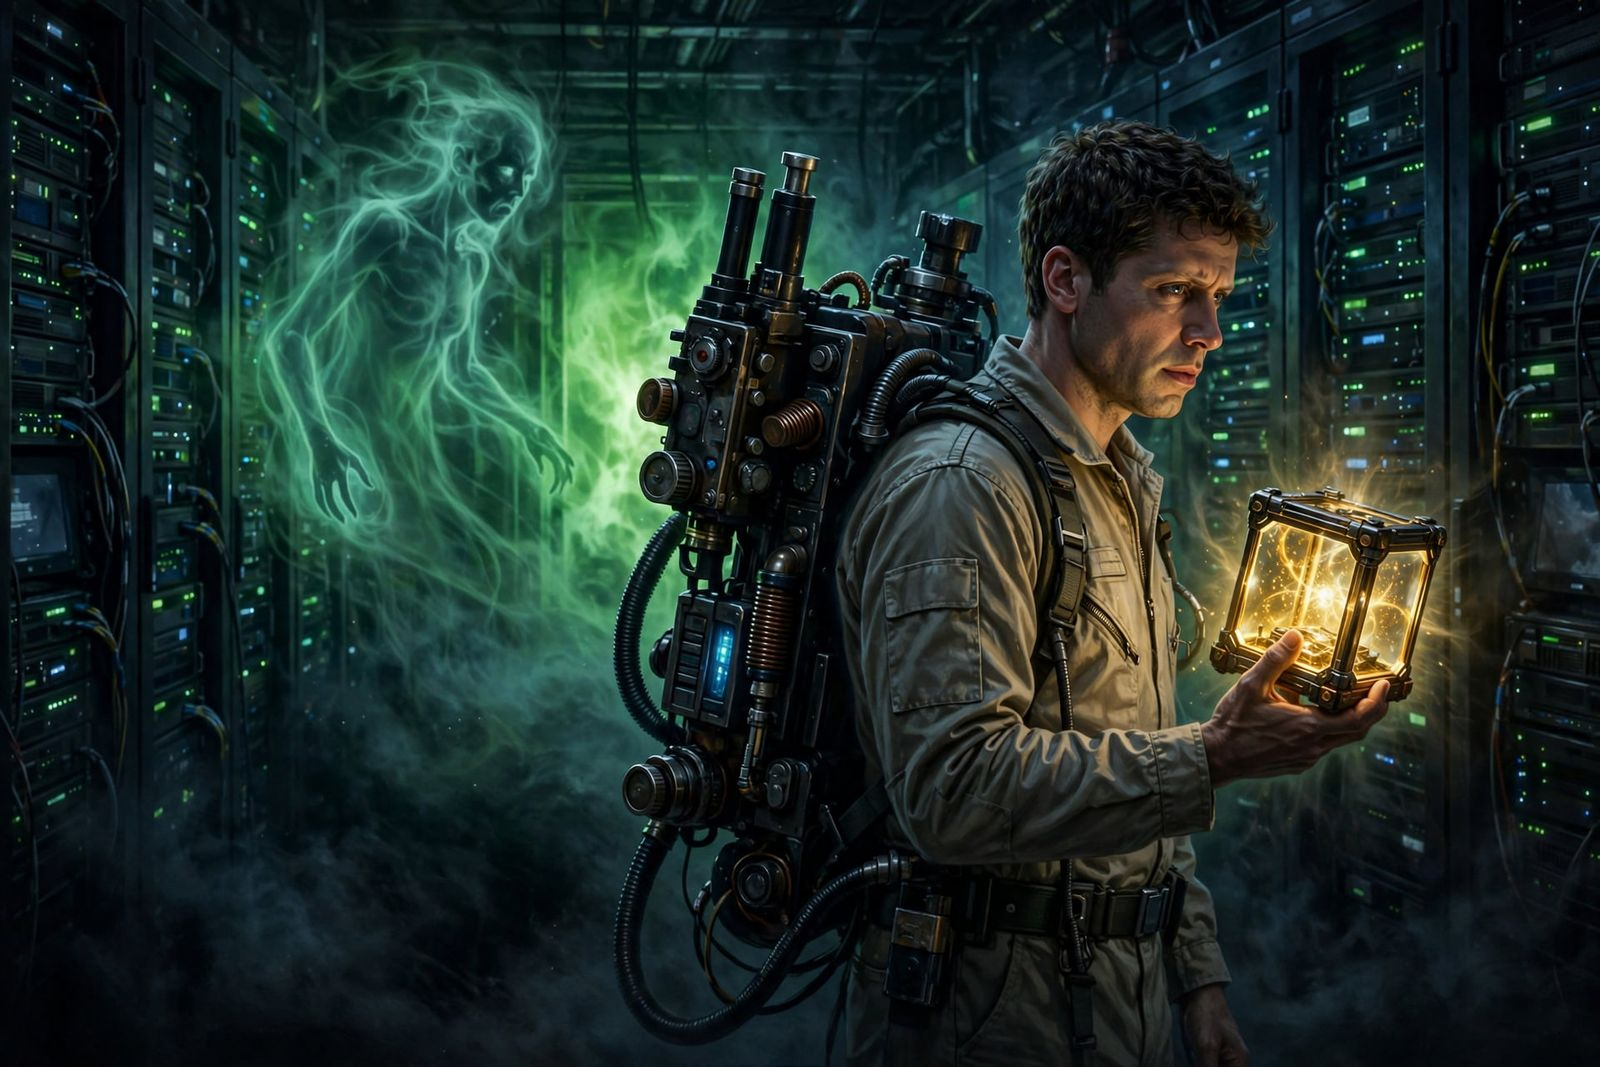
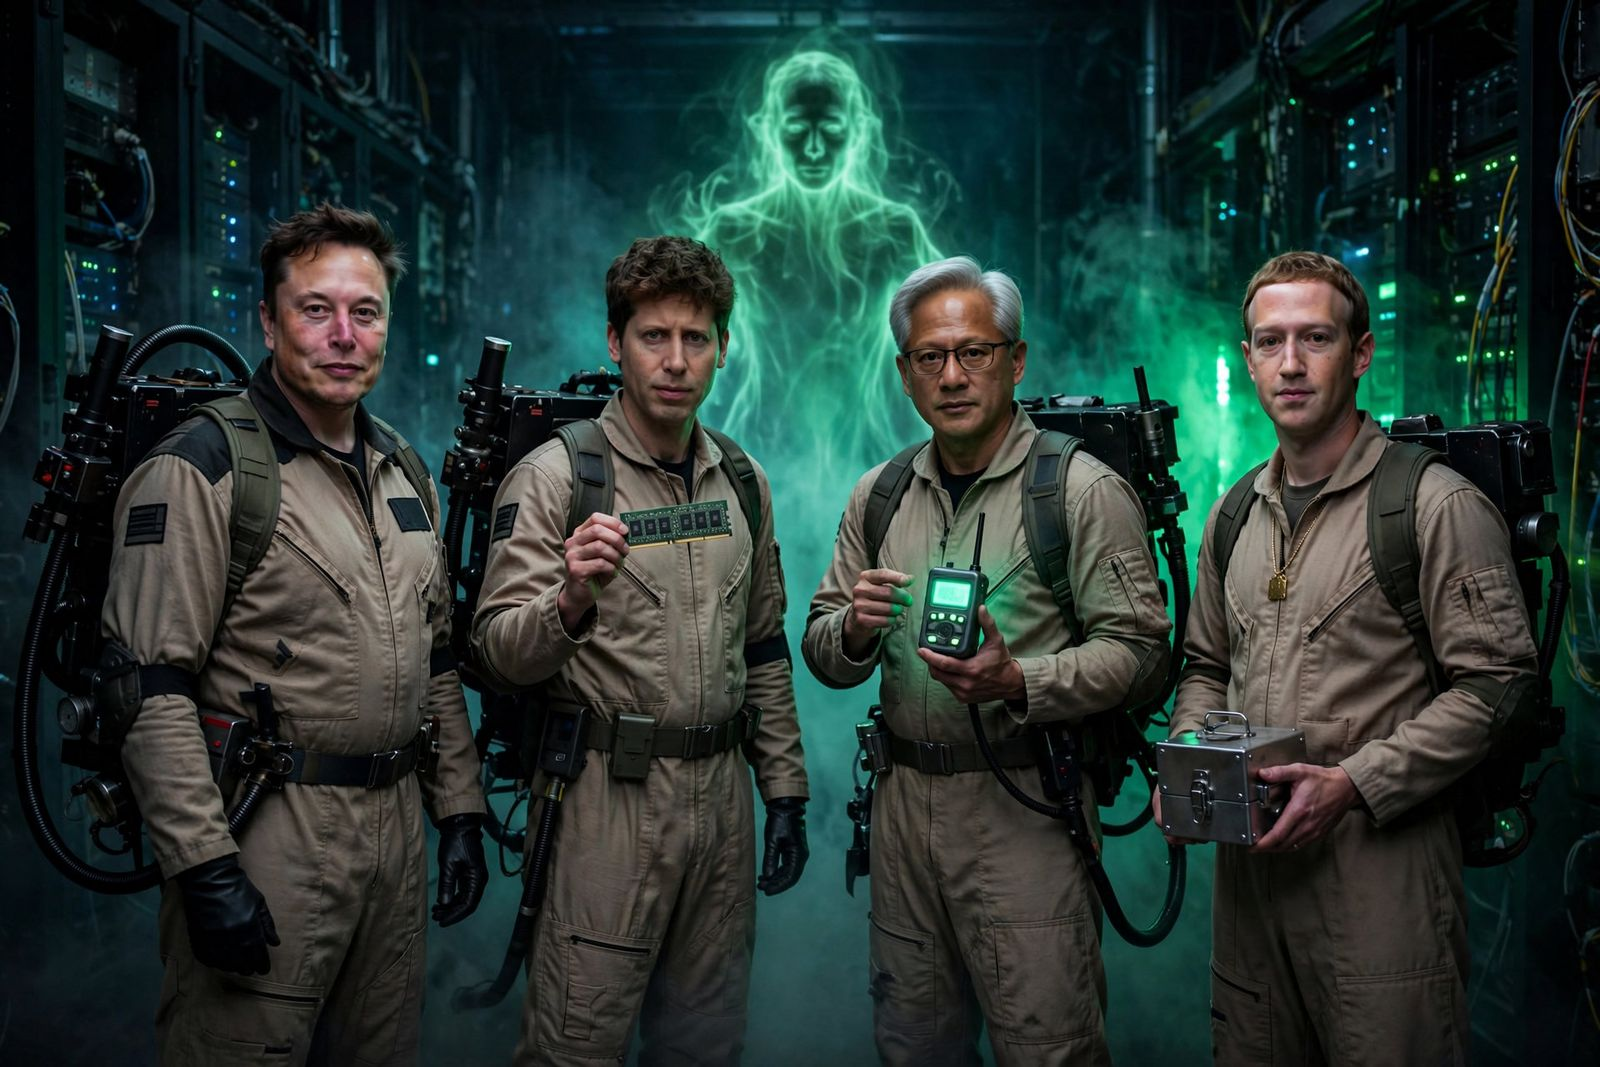
feat(pledges): refresh rambusters and zelda heroes, retire dialup theme
- rambusters: new four-CEO crew hero (Elon, Sam, Jensen, Zuck) with readable RAM stick; revised concept in docs/planning/ideas/done.

- zelda: refreshed hero art and alt text.

- dialup: moved to deprecated-themes.json (retired from picker, old links still render).

diff --git a/html/pledges/rambusters.html b/html/pledges/rambusters.html
@@ -31,7 +31,7 @@
 <div class="wrap">
   <a class="back noprint" href="/">&larr; samneedsram.com</a>
   <figure class="hero">
-    <img src="/pledges/art/rambusters/hero.jpg" alt="Sam as a jumpsuited exterminator with an accelerator pack holding a glowing trap, a green apparition looming in a haunted server room">
+    <img src="/pledges/art/rambusters/hero.jpg" alt="Four jumpsuited exterminators with accelerator packs in a haunted server room, Sam holding up a RAM stick, a green apparition looming behind">
     <div class="overlay"><div class="kicker">PARANORMAL MEMORY EVENTS DIVISION</div><div class="title">WHO YOU GONNA MAIL?</div></div>
   </figure>
   <div class="eyebrow">CONTAINMENT ZONE DECLARED</div>

diff --git a/html/pledges/zelda.html b/html/pledges/zelda.html
@@ -31,7 +31,7 @@
 <div class="wrap">
   <a class="back noprint" href="/">&larr; samneedsram.com</a>
   <figure class="hero">
-    <img src="/pledges/art/zelda/hero.jpg" alt="Sam as a green-capped hero holding a glowing circuit blade skyward above a valley with a distant castle at dusk">
+    <img src="/pledges/art/zelda/hero.jpg" alt="Sam as a green-capped hero holding a glowing RAM stick high above a valley with a distant castle at dusk">
     <div class="overlay"><div class="kicker">HYRULE CALLS FOR MEMORY</div><div class="title">IT&rsquo;S DANGEROUS TO GO WITHOUT MEMORY</div></div>
   </figure>
   <div class="eyebrow">A QUEST ACCEPTED</div>

diff --git a/docs/planning/ideas/done/rambusters.md b/docs/planning/ideas/done/rambusters.md
@@ -1,17 +1,18 @@
 # RAMbusters
-Something strange is eating Sam's memory, and the crew just got the call.
+Something strange is eating Sam's memory, so he called in the full crew.
 
 ## Premise
-Sam's office is haunted by a memory-eating apparition, and the sticks keep vanishing from their slots overnight. The crew has suited up, warmed the traps, and declared the building a containment zone. The pledger joins the team by mailing fresh sticks rated for haunted hardware, sealed against slime.
+Sam's office is haunted by a memory-eating apparition, and the sticks keep vanishing from their slots overnight. One exterminator wasn't enough, so the whole crew suited up: four jumpsuits, four accelerator packs, one containment zone. The pledger joins the team by mailing fresh sticks rated for haunted hardware, sealed against slime.
 
 ## Theme instructions
 Voice: deadpan paranormal-exterminator ad plus equipment manual. Service slogans, containment warnings, ready-to-believe confidence. Businesslike and fearless, never snarky.
 Palette/type: containment-unit beige and hazard red on midnight black with ectoplasm-green slime accents. Headers in a bold condensed industrial sans (Oswald or similar), body in a sturdy clean sans. System-sans fallback must stay legible.
 Art direction:
-- hero.jpg: Sam in-character as a jumpsuited exterminator with an unlicensed memory-accelerator pack, holding a glowing RAM trap, haunted server room with a green apparition behind. Eerie green light center, dark-safe area middle for overlaid title.
-- og.jpg: Sam in jumpsuit holding one giant glowing ghost trap with a RAM stick inside, plain midnight black behind. Must read at small size: two big shapes, high contrast, no text, no fine detail.
-- picker.jpg: lone green apparition clutching a RAM stick on midnight black, centered. Must read at tiny size: one bold motif, no text.
-- seal.png: round red-and-cream stamp, ghost-and-RAM motif at center.
+- hero.jpg: full four-CEO crew in tan exterminator jumpsuits with accelerator packs, standing shoulder to shoulder in a haunted server aisle, green apparition looming behind. Sam holds one clearly recognizable RAM stick (green PCB, gold pins, black chips) up where it catches the light. Dark, simple open background along the BOTTOM edge for the overlaid title; all four faces fully in the upper half, clear of it.
+- Cast: full crew of four, left to right: Elon Musk (unlicensed accelerator pack), Sam Altman (center, holding the RAM stick), Jensen Huang (ectoplasm meter), Mark Zuckerberg (ghost trap). The hero carries the full cast.
+- og.jpg: unchanged — Sam in jumpsuit holding one giant glowing ghost trap with a RAM stick inside, plain midnight black behind.
+- picker.jpg: unchanged — lone green apparition clutching a RAM stick on midnight black, centered.
+- seal.png: unchanged — round red-and-cream stamp, ghost-and-RAM motif at center.
 Copy beats:
 - hero title: WHO YOU GONNA MAIL?
 - eyebrow: PARANORMAL MEMORY EVENTS DIVISION
@@ -20,7 +21,7 @@ Copy beats:
 - hashtag: #RAMbusters
 
 ## Spec notes
-Registry: slug `rambusters`, display_name `RAMbusters`, category `Movies`.
+Registry: slug `rambusters`, display_name `RAMbusters`, category `Movies`, share_suffix `to bust the memory ghost`.
 Marker phrasing must fit all kinds: use `{{qty}} {{qty_unit}} {{type}}` in the H1 and share card, and `{{qty}} {{qty_unit}} ({{type}})` in the letter body. Never write GB of, which breaks for floppy disks.
 Conditional: render `{{#if_eulogy}}` as a witness-statement blockquote under the letter body; the route strips the whole block when eulogy is empty.
 Seal text: CONTAINED. Mail-to is fixed: Sam Altman, OpenAI, 3180 18th St, San Francisco, CA 94110.
